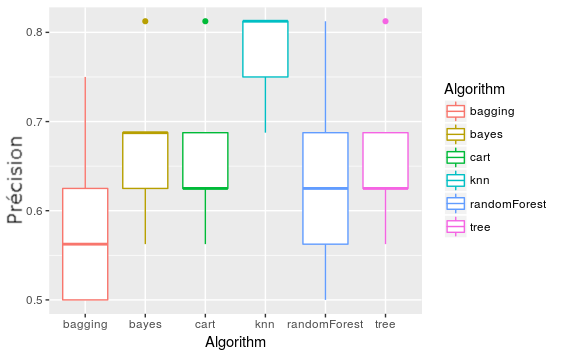
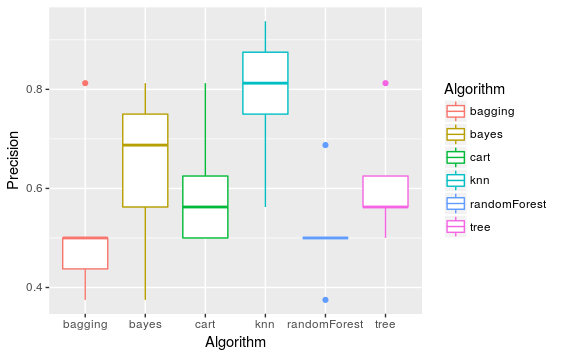
finish

diff --git a/projet/rapport.md b/projet/rapport.md
@@ -24,11 +24,24 @@ Nous avons construit un arbre de décision en suivant le modèle CART grâce au 
 On observe alors, pour l'exemple ci-dessus (l'arbre peut varier selon les données contenues dans *data_train*, celles-ci étant peu nombreuses), que si la pression sanguine est normale, l'âge (supérieur ou non à 31) détermine la décision finale. Dans le cas contraire, s'il y a un problème cardiaque, une césarienne est nécessaire, sinon c'est à nouveau l'âge qui entre en compte pour prédire la valeur de la variable *Caesarian*.
 
 ## Random Forest
+Nous avons ensuite testé la performance du modèle Random Forest sur nos données. La matrice de confusion obtenue, sur les données de test, est la suivante :
+
+![Confusion matrix](./rf_confusion.png)
+
+Nous avons ensuite utilisé la fonction *varImpPlot()* afin de savoir quelles étaient les variables déterminantes pour la décision finale. Nous obtenons le graphe suivant :
+
 ![Random Forest Results](./varImp.png)
 
+Nous remarquons ainsi que la variable la plus importante, pour prédire si une césarienne est nécessaire ou non, est l'âge de la femme ; la seconde variable d'importance est la pression sanguine au moment de l'accouchement.
+
 ## Comparaison des performances
+Finalement, afin d'avoir une idée globale des performances de différents modèles étudiés en cours, nous avons fait un k-fold sur les données d'entraînement et de test. Les modèles testés ici sont : la méthode d'ensemble Bagging, Naive Bayes, CART et Random Forest dont nous avons déjà parlé dans les premières parties, K-nearest neighbors, et Tree.
+
+Nous obtenons à la fin le boxplot suivant :
 
 ![Boxplot Final](./boxplot.png){ width=70% }
+
+De même que pour les autres résultats, à cause du faible nombre de données, le taux de précision varie de 5 à 10% en fonction des données (réparties aléatoirement) contenues dans les valeurs d'entraînement et de test.
 
 ## Conclusion
 Après avoir comparé les performances des différents modèles de machine learning, pour le dataset *Caesarian section*, le modèle le plus performant est le KNN (K-nearest neighbors), avec 80% de précision. Il est suivi par Naive Bayes, avec un taux de précision d'environ 70%.
